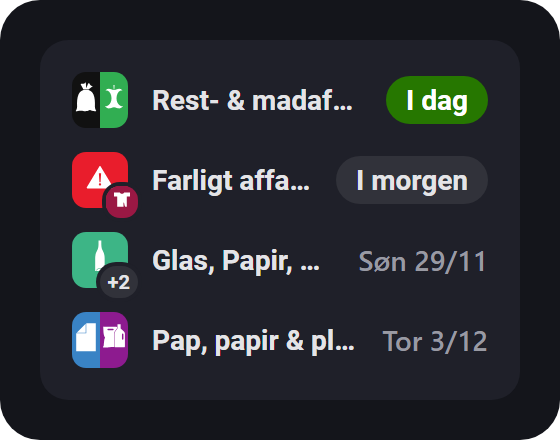
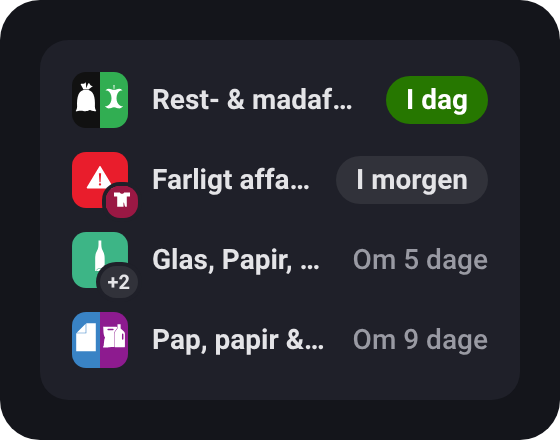
1.0.1: compact widget shows time until pickup instead of the date

diff --git a/dev/preview.html b/dev/preview.html
@@ -39,11 +39,11 @@
     var DATA = {
       status: 'ok', name: 'Bygaden 3',
       pickups: [
-        { daysUntil: 0, when: 'I dag', dateLabel: 'Tir 24/11', dateLong: 'tirsdag d. 24. november', fractions: [f('restaffaldmadaffald', 'Rest- & madaffald')] },
-        { daysUntil: 1, when: 'I morgen', dateLabel: 'Ons 25/11', dateLong: 'onsdag d. 25. november', fractions: [f('farligtaffald', 'Farligt affald'), f('tekstil', 'Tekstilaffald')] },
-        { daysUntil: 5, when: 'Om 5 dage', dateLabel: 'Søn 29/11', dateLong: 'søndag d. 29. november', fractions: [f('glas', 'Glas'), f('papir', 'Papir'), f('pap', 'Pap')] },
-        { daysUntil: 9, when: 'Om 9 dage', dateLabel: 'Tor 3/12', dateLong: 'torsdag d. 3. december', fractions: [f('pappi', 'Pap, papir & plast')] },
-        { daysUntil: 17, when: 'Om 17 dage', dateLabel: 'Fre 11/12', dateLong: 'fredag d. 11. december', fractions: [f('metalglas', 'Metal & glas')] },
+        { daysUntil: 0, when: 'I dag', dateLong: 'tirsdag d. 24. november', fractions: [f('restaffaldmadaffald', 'Rest- & madaffald')] },
+        { daysUntil: 1, when: 'I morgen', dateLong: 'onsdag d. 25. november', fractions: [f('farligtaffald', 'Farligt affald'), f('tekstil', 'Tekstilaffald')] },
+        { daysUntil: 5, when: 'Om 5 dage', dateLong: 'søndag d. 29. november', fractions: [f('glas', 'Glas'), f('papir', 'Papir'), f('pap', 'Pap')] },
+        { daysUntil: 9, when: 'Om 9 dage', dateLong: 'torsdag d. 3. december', fractions: [f('pappi', 'Pap, papir & plast')] },
+        { daysUntil: 17, when: 'Om 17 dage', dateLong: 'fredag d. 11. december', fractions: [f('metalglas', 'Metal & glas')] },
       ],
     };
     var CARDS = [

diff --git a/app.ts b/app.ts
@@ -2,7 +2,7 @@ import Homey from 'homey';
 import { addDays, localParts, setMissingTypeLogger, weekday } from './lib/affalddk';
 import { widgetIconPath } from './lib/icons';
 import {
-  daysText, fractionName, longDate, monthName, shortDate, toLang, weekdayLetters,
+  daysText, fractionName, longDate, monthName, toLang, weekdayLetters,
 } from './lib/names';
 import type { AddressDevice } from './drivers/address/device';
 
@@ -10,7 +10,6 @@ export interface WidgetPickup {
   date: string;
   daysUntil: number;
   when: string;
-  dateLabel: string;
   dateLong: string;
   fractions: Array<{ key: string; name: string; icon: string }>;
 }
@@ -92,7 +91,6 @@ class AffaldApp extends Homey.App {
         date: d.date,
         daysUntil: d.daysUntil,
         when: daysText(d.daysUntil, lang),
-        dateLabel: shortDate(d.date, lang),
         dateLong: longDate(d.date, lang),
         fractions: d.keys.map((key) => ({ key, name: fractionName(key, lang), icon: widgetIconPath(key) })),
       })),

diff --git a/widgets/upcoming/public/widget.js b/widgets/upcoming/public/widget.js
@@ -87,8 +87,7 @@
         var names = p.fractions.map(function (f) { return f.name; }).join(', ');
         el('div', 'ap-name', names, text).dir = 'auto';
         el('div', 'ap-date', p.dateLong, text);
-        // Compact has no date line: the date goes in the "when" column for days further out
-        el('div', 'ap-when', compact && p.daysUntil > 1 ? p.dateLabel : p.when, row);
+        el('div', 'ap-when', p.when, row);
       });
       root.replaceChildren(list);
     }
